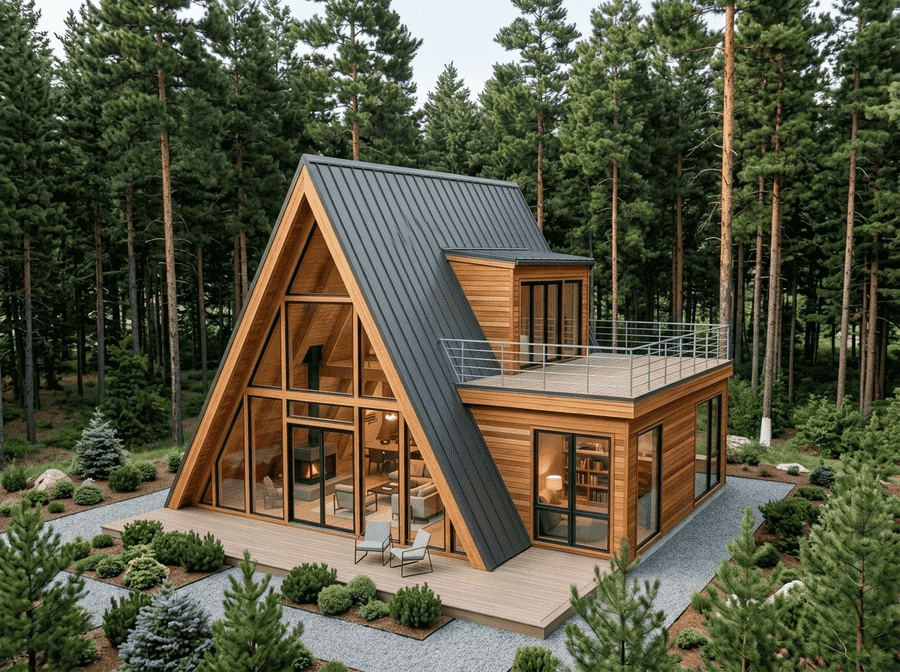
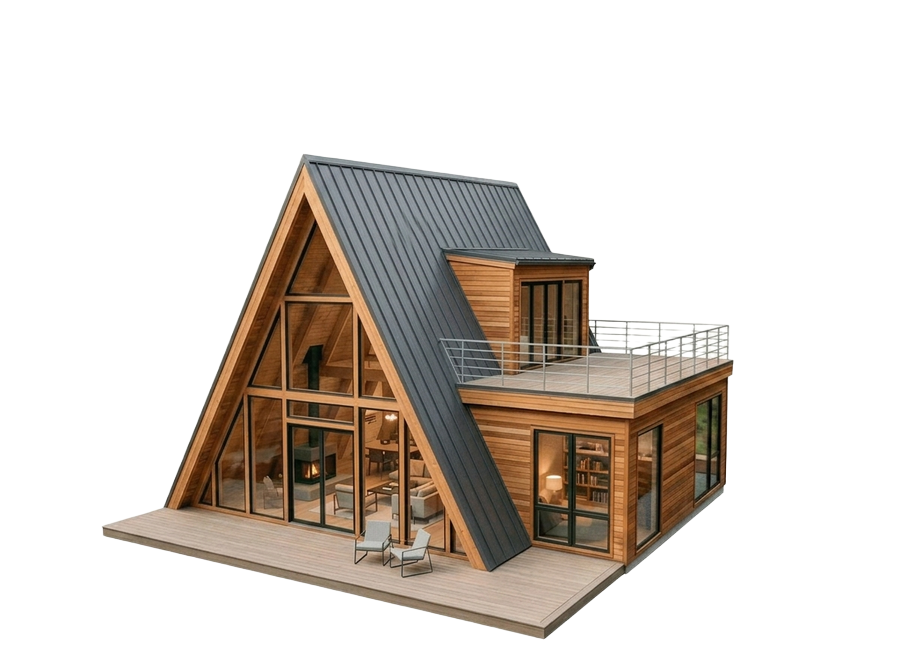
Calculadora y mil cambios más

diff --git a/src/app/api/leads/route.ts b/src/app/api/leads/route.ts
@@ -1,6 +1,6 @@
 import { NextResponse } from 'next/server';
 import { supabaseAdmin } from '@/lib/supabase';
-import { Resend } from 'resend'; 
+import { Resend } from 'resend';
 
 const resend = new Resend(process.env.RESEND_API_KEY);
 
@@ -48,7 +48,13 @@ export async function POST(request: Request) {
       throw error;
     }
 
-    // 2. Enviar email de bienvenida al cliente
+    // Cálculos para el email (Anticipo 40% y Cuotas 60% / 12)
+    const anticipoMin = Math.round(presupuestoMinARS * 0.4);
+    const anticipoMax = Math.round(presupuestoMaxARS * 0.4);
+    const cuotaMin = Math.round((presupuestoMinARS * 0.6) / 12);
+    const cuotaMax = Math.round((presupuestoMaxARS * 0.6) / 12);
+
+    // 2. Enviar email de bienvenida al cliente (Mismo mensaje, solo cambia el bloque de precios)
     await resend.emails.send({
       from: 'Alpinas Traslasierra <onboarding@resend.dev>',
       to: [email],
@@ -59,15 +65,26 @@ export async function POST(request: Request) {
           
           <p>Gracias por usar nuestra calculadora de presupuesto. Recibimos tu consulta para construir una cabaña de <strong>${metros} m²</strong> en <strong>${localidad}</strong>.</p>
           
+          <!-- BLOQUE MODIFICADO: Solo muestra Anticipo y Cuotas -->
           <div style="background: #f0f0f0; padding: 20px; border-radius: 10px; margin: 20px 0;">
-            <h3 style="color: #2d3748; margin-top: 0;">📊 Tu presupuesto estimado:</h3>
-            <p style="font-size: 24px; font-weight: bold; color: #c5a073; margin: 10px 0;">
-              $${presupuestoMinARS.toLocaleString('es-AR')} - $${presupuestoMaxARS.toLocaleString('es-AR')} ARS
-            </p>
-            <p style="color: #718096; font-size: 14px;">
-              (USD ${presupuestoMinUSD.toLocaleString()} - ${presupuestoMaxUSD.toLocaleString()})
-            </p>
+            <h3 style="color: #2d3748; margin-top: 0; text-align: center;">📊 Tu plan de financiamiento:</h3>
+            
+            <div style="display: flex; gap: 15px; margin-top: 15px;">
+              <div style="flex: 1; background: white; padding: 15px; border-radius: 8px; text-align: center; border: 1px solid #e2e8f0;">
+                <p style="margin: 0; font-size: 12px; color: #718096; font-weight: 600; text-transform: uppercase;">Anticipo (40%)</p>
+                <p style="margin: 8px 0 0; font-size: 18px; font-weight: bold; color: #c5a073;">
+                  $${anticipoMin.toLocaleString('es-AR')} - $${anticipoMax.toLocaleString('es-AR')}
+                </p>
+              </div>
+              <div style="flex: 1; background: white; padding: 15px; border-radius: 8px; text-align: center; border: 1px solid #e2e8f0;">
+                <p style="margin: 0; font-size: 12px; color: #718096; font-weight: 600; text-transform: uppercase;">12 cuotas s/interés</p>
+                <p style="margin: 8px 0 0; font-size: 18px; font-weight: bold; color: #c5a073;">
+                  $${cuotaMin.toLocaleString('es-AR')} - $${cuotaMax.toLocaleString('es-AR')}/mes
+                </p>
+              </div>
+            </div>
           </div>
+          <!-- FIN BLOQUE MODIFICADO -->
 
           <p><strong>Calidad seleccionada:</strong> ${calidad}</p>
           
@@ -94,10 +111,10 @@ export async function POST(request: Request) {
       `,
     });
 
-    // 3. Enviar notificación a tu email
+    // 3. Enviar notificación a tu email (También actualizado para no mostrar el total)
     await resend.emails.send({
       from: 'Alpinas Traslasierra <onboarding@resend.dev>',
-      to: ['alpinastraslasierra@gmail.com'], // ← CAMBIÁ ESTO POR TU EMAIL REAL
+      to: ['alpinastraslasierra@gmail.com'], 
       subject: `🔔 Nuevo lead: ${nombre} ${apellido} - ${localidad}`,
       html: `
         <div style="font-family: Arial, sans-serif; max-width: 600px; margin: 0 auto; padding: 20px;">
@@ -113,7 +130,8 @@ export async function POST(request: Request) {
             <h3 style="color: #2d3748;">Detalles del proyecto:</h3>
             <p><strong>Superficie:</strong> ${metros} m²</p>
             <p><strong>Calidad:</strong> ${calidad}</p>
-            <p><strong>Presupuesto:</strong> $${presupuestoMinARS.toLocaleString('es-AR')} - $${presupuestoMaxARS.toLocaleString('es-AR')} ARS</p>
+            <p><strong>Anticipo (40%):</strong> $${anticipoMin.toLocaleString('es-AR')} - $${anticipoMax.toLocaleString('es-AR')} ARS</p>
+            <p><strong>12 cuotas s/interés:</strong> $${cuotaMin.toLocaleString('es-AR')} - $${cuotaMax.toLocaleString('es-AR')} ARS/mes</p>
             ${mensaje ? `<p><strong>Mensaje:</strong> ${mensaje}</p>` : ''}
           </div>
 

diff --git a/src/components/projects/Projects.js b/src/components/projects/Projects.js
@@ -15,7 +15,7 @@ const MODELS = [
           
     bedrooms: 1,
     bathrooms: 1,
-    category: "Escapadas / Inversión inicial",
+    category: "Inversión inicial",
     description:
       "Modelo compacto ideal para empezar. Perfecto para alquiler turístico. Incluye altillo y galería.",
     features: ["Altillo", "Galería cubierta", "Cocina integrada", "Baño completo"],
@@ -48,7 +48,7 @@ const MODELS = [
      ],
     bedrooms: 2,
     bathrooms: 1,
-    category: "Parejas / Alquiler turístico",
+    category: "Alquiler turístico",
     description:
       "Equilibrio perfecto entre espacio y costo. Dos dormitorios, living-comedor amplio y baño completo.",
     features: ["2 dormitorios", "Living-comedor", "Cocina separada", "Habitación lateral"],
@@ -78,7 +78,7 @@ const MODELS = [
     ],
     bedrooms: 2,
     bathrooms: 1,
-    category: "Familias / Vivienda permanente",
+    category: "Familias / Amplio",
     description:
       "Espacio amplio para vivir todo el año. Tres dormitorios, baño completo y gran living con vistas a las sierras.",
     features: ["2 dormitorios", "Living amplio", "Cocina-comedor", "Galería lateral"],
@@ -103,13 +103,13 @@ const MODELS = [
     ],
     bedrooms: 2,
     bathrooms: 2,
-    category: "Premium / Alta rentabilidad",
+    category: "Loft / Compacto",
     description:
       "Doble altura, loft superior. El modelo que más destaca por su diseño único.",
     features: ["Loft superior", "Doble altura", "2 baños"],
     image: "/images/modelos/proyecto-3.png",
     imageAlt: "Alpina Premium - 35m² con loft y doble altura",
-    bestFor: "Alquiler turístico premium o vivienda permanente",
+    bestFor: "Alquiler turístico o vivienda permanente",
     floorPlans: [
       {
         src: "/images/modelos/planos/plano4/plano-1_estructura4.png",
@@ -322,11 +322,11 @@ function ModelCard({ model, visible, index, onViewPlans }) {
     >
       <div className="group relative overflow-hidden rounded-2xl bg-white shadow-sm border border-zinc-200/50">
         {/* Badge recomendado */}
-        {model.recommended && (
-          <span className="absolute left-1/2 top-4 z-20 -translate-x-1/2 rounded-full bg-[#c5a073] px-3 py-1 text-[10px] font-bold uppercase tracking-wider text-white shadow-md sm:text-xs">
-            Modelo más recomendado
-          </span>
-        )}
+{model.recommended && (
+  <span className="absolute left-63 top-4 z-20 -translate-x-1/2 rounded-full bg-[#c5a073] px-3 py-1 text-[10px] font-bold uppercase tracking-wider text-white shadow-md sm:text-xs">
+    Modelo más recomendado
+  </span>
+)}
 
         {/* Badge de categoría */}
         <span className="absolute left-4 top-4 z-10 rounded-full border border-white/20 bg-black/35 px-3 py-1 text-[11px] font-medium tracking-wide text-white/95 backdrop-blur-sm sm:text-xs">
@@ -369,8 +369,7 @@ function ModelCard({ model, visible, index, onViewPlans }) {
       ¿Cómo funcionan los pagos?
     </span>
   </div>
-  <ul className="text-xs text-blue-800 space-y-1">
-    <li>• Precio total en USD (protege tu inversión)</li>
+  <ul className="text-xs text-blue-800 space-y-1">    
     <li>• Pagos en pesos al dólar blue del día</li>
     <li>• Cuotas fijas en USD, convertibles a pesos</li>
     <li>• Sin sorpresas: el precio que acordás es el final</li>

diff --git a/src/components/why-choose-us/WhyChooseUs.js b/src/components/why-choose-us/WhyChooseUs.js
@@ -121,7 +121,7 @@ const FEATURES = [
   {
     title: "Construcción artesanal",
     description:
-      "Cada cabaña se construye a mano, con detalle y oficio. No somos una empresa de prefabricados en serie.",
+      "Cada cabaña se construye a mano. No hacemos prefabricados en serie.",
     icon: HammerIcon,
   
     details: [
@@ -140,7 +140,7 @@ const FEATURES = [
   {
     title: "Madera tratada desde el inicio",
     description:
-      "Usamos maderas con tratamiento adecuado al clima serrano: protegidas de la humedad, el viento y los cambios térmicos.",
+      "Usamos maderas con tratamiento adecuado: protegidas de la humedad, el viento y los cambios térmicos.",
     icon: TreeIcon,
   
     details: [
@@ -175,7 +175,7 @@ const FEATURES = [
   {
     title: "Adaptación al terreno",
     description:
-      "Conocemos las sierras. Diseñamos y construimos respetando la topografía y condiciones del lugar.",
+      "Construimos adaptándonos a la inclinación natural del suelo.",
     icon: MountainIcon,
   
     details: [
@@ -201,7 +201,7 @@ const FEATURES = [
   {
     title: "Personalización real",
     description:
-      "Tu cabaña no es igual a la del vecino. Trabajamos con vos el diseño, los materiales y los espacios que necesitás.",
+      "Trabajamos con vos el diseño, los materiales y los espacios que necesitás.",
     icon: SlidersIcon,
   
     details: [
@@ -524,13 +524,13 @@ export default function WhyChooseUs() {
               id="why-choose-heading"
               className="text-3xl font-bold leading-[1.15] tracking-tight text-zinc-900 sm:text-4xl lg:text-[2.65rem]"
             >
-              Tu cabaña lista en 10 a 12 semanas, con precio cerrado por contrato y fotos semanales del avance.
+              Tu cabaña lista en 10 a 12 semanas.
             </h2>
+           
 
             <p className="mt-5 text-base leading-relaxed text-zinc-600 sm:text-lg">
-            Construimos alpinas y cabañas en Traslasierra. Cada obra tiene precio cerrado por contrato, 
-            cronograma por escrito y un responsable directo que te manda fotos todos los viernes. Sin sorpresas, 
-            sin letra chica.
+            Cada obra tiene precio cerrado por contrato y aviso de avances semanales.
+            
             </p>
 
             <div className="mt-8 flex items-start gap-3 rounded-xl border border-emerald-500/10 bg-emerald-500/5 px-5 py-4">
@@ -540,7 +540,7 @@ export default function WhyChooseUs() {
               />
 
               <p className="text-sm leading-relaxed text-zinc-700 sm:text-[15px]">
-                Operamos en toda la zona serrana de Córdoba y San Luis.
+                Además de Traslasierra operamos en Valle de punilla y Norte de San Luis.
               </p>
             </div>
 

diff --git a/src/components/BudgetCalculator.tsx b/src/components/BudgetCalculator.tsx
@@ -198,8 +198,6 @@ export default function BudgetCalculator() {
     message += `📐 Metros cuadrados: ${formData.metros} m²%0A`;
     message += `✨ Calidad: ${calidadOption?.label}%0A`;
     message += `📍 Localidad: ${formData.localidad || "No especificada"}%0A`;
-    message += `💰 Presupuesto estimado: $${priceRangeARS.min.toLocaleString("es-AR")} - $${priceRangeARS.max.toLocaleString("es-AR")} ARS%0A`;
-    message += `(USD ${priceRange.min.toLocaleString("es-AR")} - ${priceRange.max.toLocaleString("es-AR")})%0A`;
     message += `💵 Anticipo (40%): $${anticipoARS.min.toLocaleString("es-AR")} - $${anticipoARS.max.toLocaleString("es-AR")} ARS%0A`;
     message += `📅 12 cuotas: $${cuotaARS.min.toLocaleString("es-AR")} - $${cuotaARS.max.toLocaleString("es-AR")} ARS/mes%0A`;
     message += `📱 WhatsApp: ${fullPhone}%0A`;
@@ -566,25 +564,7 @@ export default function BudgetCalculator() {
             <div className="text-center">
               <h3 className="text-xl font-bold sm:text-2xl">📊 Tu presupuesto estimado:</h3>
               
-              {/* Precio total en PESOS grande */}
-              <div className="my-6">
-                <div className="text-4xl font-extrabold sm:text-5xl">
-                  ${priceRangeARS.min.toLocaleString("es-AR")} - ${priceRangeARS.max.toLocaleString("es-AR")}
-                </div>
-                <div className="mt-1 text-sm font-medium text-white/90">
-                  pesos argentinos
-                </div>
-              </div>
-
-              {/* Precio en USD pequeño */}
-              <div className="mb-6 rounded-lg bg-white/10 px-4 py-2 inline-block">
-                <div className="text-lg font-semibold">
-                  USD {priceRange.min.toLocaleString("es-AR")} - {priceRange.max.toLocaleString("es-AR")}
-                </div>
-                <div className="text-xs text-white/80">
-                  dólares estadounidenses
-                </div>
-              </div>
+              
 
               {/* NUEVO: Anticipo y cuotas destacados */}
               <div className="mt-6 grid gap-3 sm:grid-cols-2">

diff --git a/src/components/Hero.js b/src/components/Hero.js
@@ -172,16 +172,16 @@ export default function Hero() {
               className="animate-fade-in-up text-3xl font-bold leading-[1.15] tracking-tight sm:text-4xl md:text-5xl lg:text-[3.25rem] lg:leading-[1.1]"
               style={{ animationDelay: "0.25s" }}
             >
-              <span className="text-zinc-900">Construimos alpinas y cabañas </span>
-              <span className="text-[#c5a073]">pensadas para disfrutar</span>
-              <span className="text-zinc-900"> las sierras de verdad.</span>
+              <span className="text-zinc-900">Construcción de cabañas alpinas en el </span>
+              <span className="text-[#c5a073]">Valle de Traslasierra</span>
+              <span className="text-zinc-900"></span>
             </h1>
 
             <p
               className="mt-6 max-w-xl animate-fade-in-up text-base leading-relaxed text-zinc-600 sm:text-lg"
               style={{ animationDelay: "0.4s" }}
             >
-              +50 cabañas entregadas en Traslasierra. Agendá tu visita a obra esta semana
+              +50 cabañas entregadas. Calcula tu presupuesto gratis y contactanos para empezar.
             </p>
 
             <div
@@ -205,7 +205,7 @@ export default function Hero() {
             className="lg:col-span-5 xl:col-span-6 flex justify-center lg:justify-end animate-fade-in-up"
             style={{ animationDelay: "0.7s" }}
           >
-            <div className="relative w-full max-w-lg overflow-hidden rounded-3xl bg-zinc-100 shadow-[0_20px_50px_rgba(0,0,0,0.12)] border border-zinc-200/50 aspect-[4/3] sm:aspect-[1.35/1] lg:aspect-[4/3] xl:aspect-[1.35/1]">
+            <div className="relative w-full max-w-lg overflow-hidden rounded-3xl aspect-[4/3] sm:aspect-[1.35/1] lg:aspect-[4/3] xl:aspect-[1.35/1]">
               <img 
                 src="/images/hero.png"
                 alt="Diseño exclusivo de Cabaña Alpina en Traslasierra" 

diff --git a/src/components/quienes-somos/QuienesSomos.js b/src/components/quienes-somos/QuienesSomos.js
@@ -8,7 +8,7 @@ const SECTION_HEADER = {
   title: "Alpinas Traslasierra, la mejor opción para tu futura cabaña",
   description: (
     <>
-      {"Especificamos tiempos, contratos, material de seguimiento y personalización garantizada para nuestros clientes con precios que rondan "}
+      {"Especificamos tiempos, contratos, material de seguimiento y personalización con precios que rondan "}
       <span className="font-bold text-[#c5a073] text-lg bg-[#c5a073]/10 px-2 py-0.5 rounded-md">
       Desde USD 600/m²<span className="text-sm font-normal text-zinc-500"></span>
       </span>
@@ -18,17 +18,17 @@ const SECTION_HEADER = {
 
 const ATTRIBUTES = [
   {
-    title: "Construcción 100% artesanal, pieza por pieza",
+    title: "Construcción pieza por pieza",
     description:
       "Cada cabaña se edifica en tu terreno con mano de obra propia especializada, desde la platea de hormigón hasta el último detalle de terminación. No usamos paneles prefabricados.",
   },
   {
     title: "Madera tratada antes del montaje",
     description:
-      "Trabajamos con Pino, Eucalipto y Saligna. Toda la madera recibe tratamiento con impregnantes antes de instalarse: protección contra humedad, termitas, carcomas y hongos. No es una promesa, es parte estándar del proceso. Ninguna pieza se monta sin tratamiento previo. Opción de elegir materiales como Cedro (Impacta en el costo final)",
+      "Trabajamos con Pino, Eucalipto y Saligna. Toda la madera recibe tratamiento con impregnantes antes de instalarse: protección contra humedad, termitas, carcomas y hongos. Opción de elegir materiales como Cedro (Impacta en el costo final)",
   },
   {
-    title: "Alcance regional",
+    title: "Zonas",
     description:
       "Operamos en todo el Valle de Traslasierra, Valle de Punilla y Norte de San Luis. ¿Tu localidad no está en la lista? Consultanos.",
   },

diff --git a/src/components/PainPoints.js b/src/components/PainPoints.js
@@ -6,13 +6,13 @@ const PAIN_POINTS = [
   {
     title: "Obras sin fecha de entrega",
     description:
-      "Empezás la construcción y nadie te puede decir cuándo vas a terminar. Los plazos se estiran indefinidamente y perdés el control de tu proyecto.",
+      "Empezás la construcción y los plazos se estiran indefinidamente y perdés el control de tu proyecto.",
     icon: ClockIcon,
   },
   {
     title: "Costos que no paran de crecer",
     description:
-      "El presupuesto inicial era una cosa, pero cada semana aparece un 'adicional' inesperado. Terminás pagando el doble de lo que te prometieron.",
+      "El presupuesto inicial se convierte en un 'adicional' nuevo inesperado cada semana. Terminás pagando el doble de lo que te prometieron.",
     icon: DollarIcon,
   },
   {
@@ -141,8 +141,8 @@ export default function PainPoints() {
             Construir en las sierras no debería ser una fuente de estrés
           </h2>
           <p className="mt-5 text-base leading-relaxed text-zinc-600 sm:text-lg">
-          El 70% de las obras en las Córdoba se atrasan más de 6 meses. 
-          Estos son los 4 problemas que más se ven y cómo nosotros lo solucionamos.
+          Un gran porcentaje de las obras en Córdoba se atrasan más de lo esperado o vienen con errores de diseño. 
+          Estos son los 4 problemas que más se ven y cómo lo solucionamos.
           </p>
         </header>
 

diff --git a/src/components/footer/Footer.js b/src/components/footer/Footer.js
@@ -19,7 +19,7 @@ export default function Footer() {
               Alpinas Traslasierra
             </p>
             <p className="mt-3 text-sm leading-relaxed text-zinc-600">
-              Construcción artesanal de cabañas y estructuras de diseño adaptadas a la topografía, el clima y las necesidades del Valle de Traslasierra. Edificaciones pieza a pieza.
+              Construcción artesanal de cabañas alpinas en el Valle de Traslasierra.
             </p>
           </div>
 
@@ -65,7 +65,7 @@ export default function Footer() {
               Compromiso
             </h2>
             <p className="mt-4 text-sm leading-relaxed text-zinc-600">
-              Trabajamos bajo contratos claros, presupuestos transparentes sin letra chica y pagos escalonados por avance de obra certificado. Tu tranquilidad es nuestra prioridad.
+              Trabajamos bajo contratos claros y pagos escalonados por avance de obra. Tu tranquilidad es nuestra prioridad.
             </p>
           </div>
 

diff --git a/src/components/cta/Cta.js b/src/components/cta/Cta.js
@@ -6,7 +6,7 @@ const WHATSAPP_URL = "https://wa.me/5493544681747";
 
 const CTA_CONTENT = {
   badge: "EMPEZÁ AHORA",
-  titleBefore: "En la primera conversación analizamos tu terreno, te damos un presupuesto estimado y te coordinamos una visita a una obra terminada. ",
+  titleBefore: "En la primera conversación te coordinamos una visita a una obra terminada. ",
   titleHighlight: "Sin compromiso.",
   subtitle:
     "Escribinos y en 24 horas hábiles (en días laborales) tenés una respuesta.",

diff --git a/src/components/process/Process.js b/src/components/process/Process.js
@@ -41,7 +41,7 @@ const STEPS = [
     number: "03",
     title: "Presupuesto",
     description:
-      "Trabajamos con presupuesto cerrado por contrato: el precio que acordamos es el precio final. Los pagos son progresivos por etapas cumplidas",
+      "Trabajamos con presupuesto cerrado por contrato. Los pagos son progresivos por etapas cumplidas",
     highlight: "Precio cerrado por contrato.",
     icon: DocumentIcon,
     image: {
